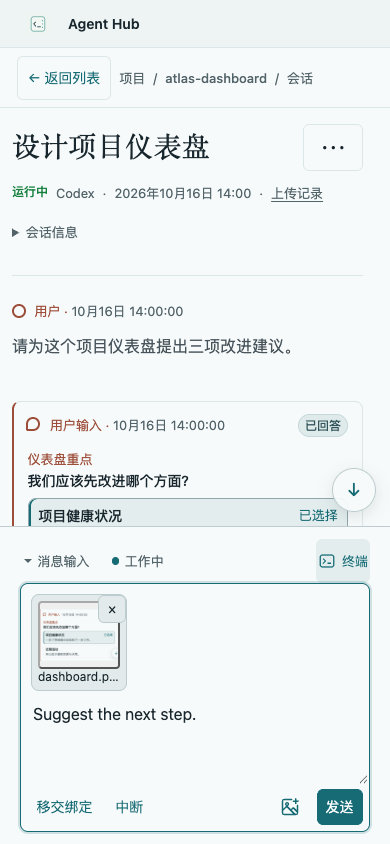
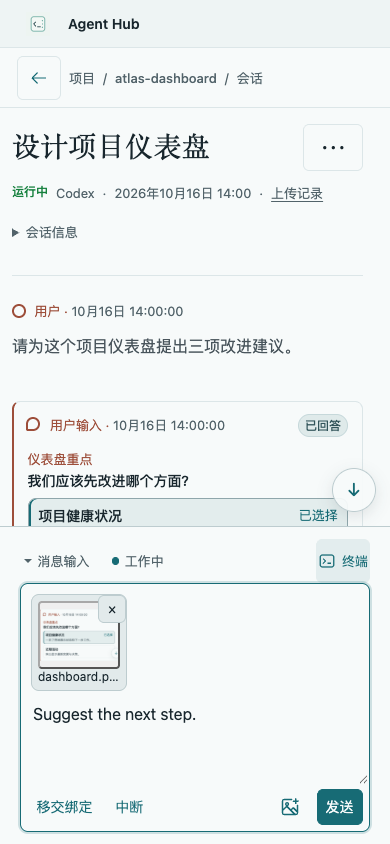
Simplify mobile session navigation

Changed region(s): [[0.1231, 0.0616, 0.4308, 0.1232], [0.4615, 0.0616, 0.6769, 0.1232], [0.7385, 0.0616, 0.8, 0.1232]]

diff --git a/src/client/App.tsx b/src/client/App.tsx
@@ -123,8 +123,25 @@ function SessionHub({ cache }: { cache: SessionCache }) {
           {sidebarCollapsed ? <SidebarToggle collapsed onToggle={toggleSidebar} /> : null}
           {sessionId ? (
             <>
-              <button className="hub-back" type="button" onClick={() => navigate(null)}>
-                {t("backToList")}
+              <button
+                className="hub-back"
+                type="button"
+                aria-label={t("backToList")}
+                onClick={() => navigate(null)}
+              >
+                <svg
+                  aria-hidden="true"
+                  width="18"
+                  height="18"
+                  viewBox="0 0 24 24"
+                  fill="none"
+                  stroke="currentColor"
+                  strokeWidth="1.5"
+                  strokeLinecap="round"
+                  strokeLinejoin="round"
+                >
+                  <path d="M21 12H3m7-7-7 7 7 7" />
+                </svg>
               </button>
               <span>{t("projects")}</span>
               <span aria-hidden="true">/</span>

diff --git a/src/client/styles/hub.css b/src/client/styles/hub.css
@@ -145,12 +145,6 @@
   color: var(--ink-soft);
 }
 .hub-back {
-  margin: 1rem 1.5rem 0;
-  border: 0;
-  background: transparent;
-  color: var(--current);
-  cursor: pointer;
-  min-height: 44px;
   display: none;
 }
 .hub-empty {
@@ -304,13 +298,14 @@
     font-size: var(--text-small);
   }
   .hub-back {
-    display: block;
-    margin: 0;
+    display: grid;
+    place-items: center;
+    flex: 0 0 44px;
+    padding: 0;
     border: 1px solid var(--mist);
-    border-radius: var(--radius-control);
-    padding: 6px 10px;
-    white-space: nowrap;
-    font-size: 0.875rem;
+    background: transparent;
+    color: var(--current);
+    cursor: pointer;
   }
   .hub-project a {
     padding-block: 14px;

diff --git a/src/client/i18n/locales/zh-TW.ts b/src/client/i18n/locales/zh-TW.ts
@@ -235,7 +235,7 @@ export const messages: Record<keyof typeof english, string> = {
   workingDirectory: "工作目錄 ·",
 
   tmuxAccessLabel: "連線 tmux",
-  backToList: "← 返回列表",
+  backToList: "返回列表",
   backToSession: "← 返回工作階段",
 
   filesChanged_other: "{{count, number}} 個檔案變更",

diff --git a/src/client/i18n/locales/zh-CN.ts b/src/client/i18n/locales/zh-CN.ts
@@ -235,7 +235,7 @@ export const messages: Record<keyof typeof english, string> = {
   workingDirectory: "工作目录 ·",
 
   tmuxAccessLabel: "连接 tmux",
-  backToList: "← 返回列表",
+  backToList: "返回列表",
   backToSession: "← 返回会话",
 
   filesChanged_other: "{{count, number}} 个文件变更",

diff --git a/src/client/components/ArtifactsPage.tsx b/src/client/components/ArtifactsPage.tsx
@@ -58,7 +58,6 @@ export function ArtifactsPage() {
   }, [loadProjects, runOperation]);
   return (
     <section className="artifacts-page">
-      <a href={nodePagePath("/")}>← Agent Hub</a>
       <header className="artifacts-heading">
         <div>
           <p className="eyebrow">{t("publishedSnapshots")}</p>

diff --git a/src/client/i18n/locales/en.ts b/src/client/i18n/locales/en.ts
@@ -237,7 +237,7 @@ export const messages = {
   workingDirectory: "Working Directory ·",
 
   tmuxAccessLabel: "tmux access",
-  backToList: "← Back to list",
+  backToList: "Back to list",
   backToSession: "← Back to session",
 
   filesChanged_other: "{{count, number}} files changed",
